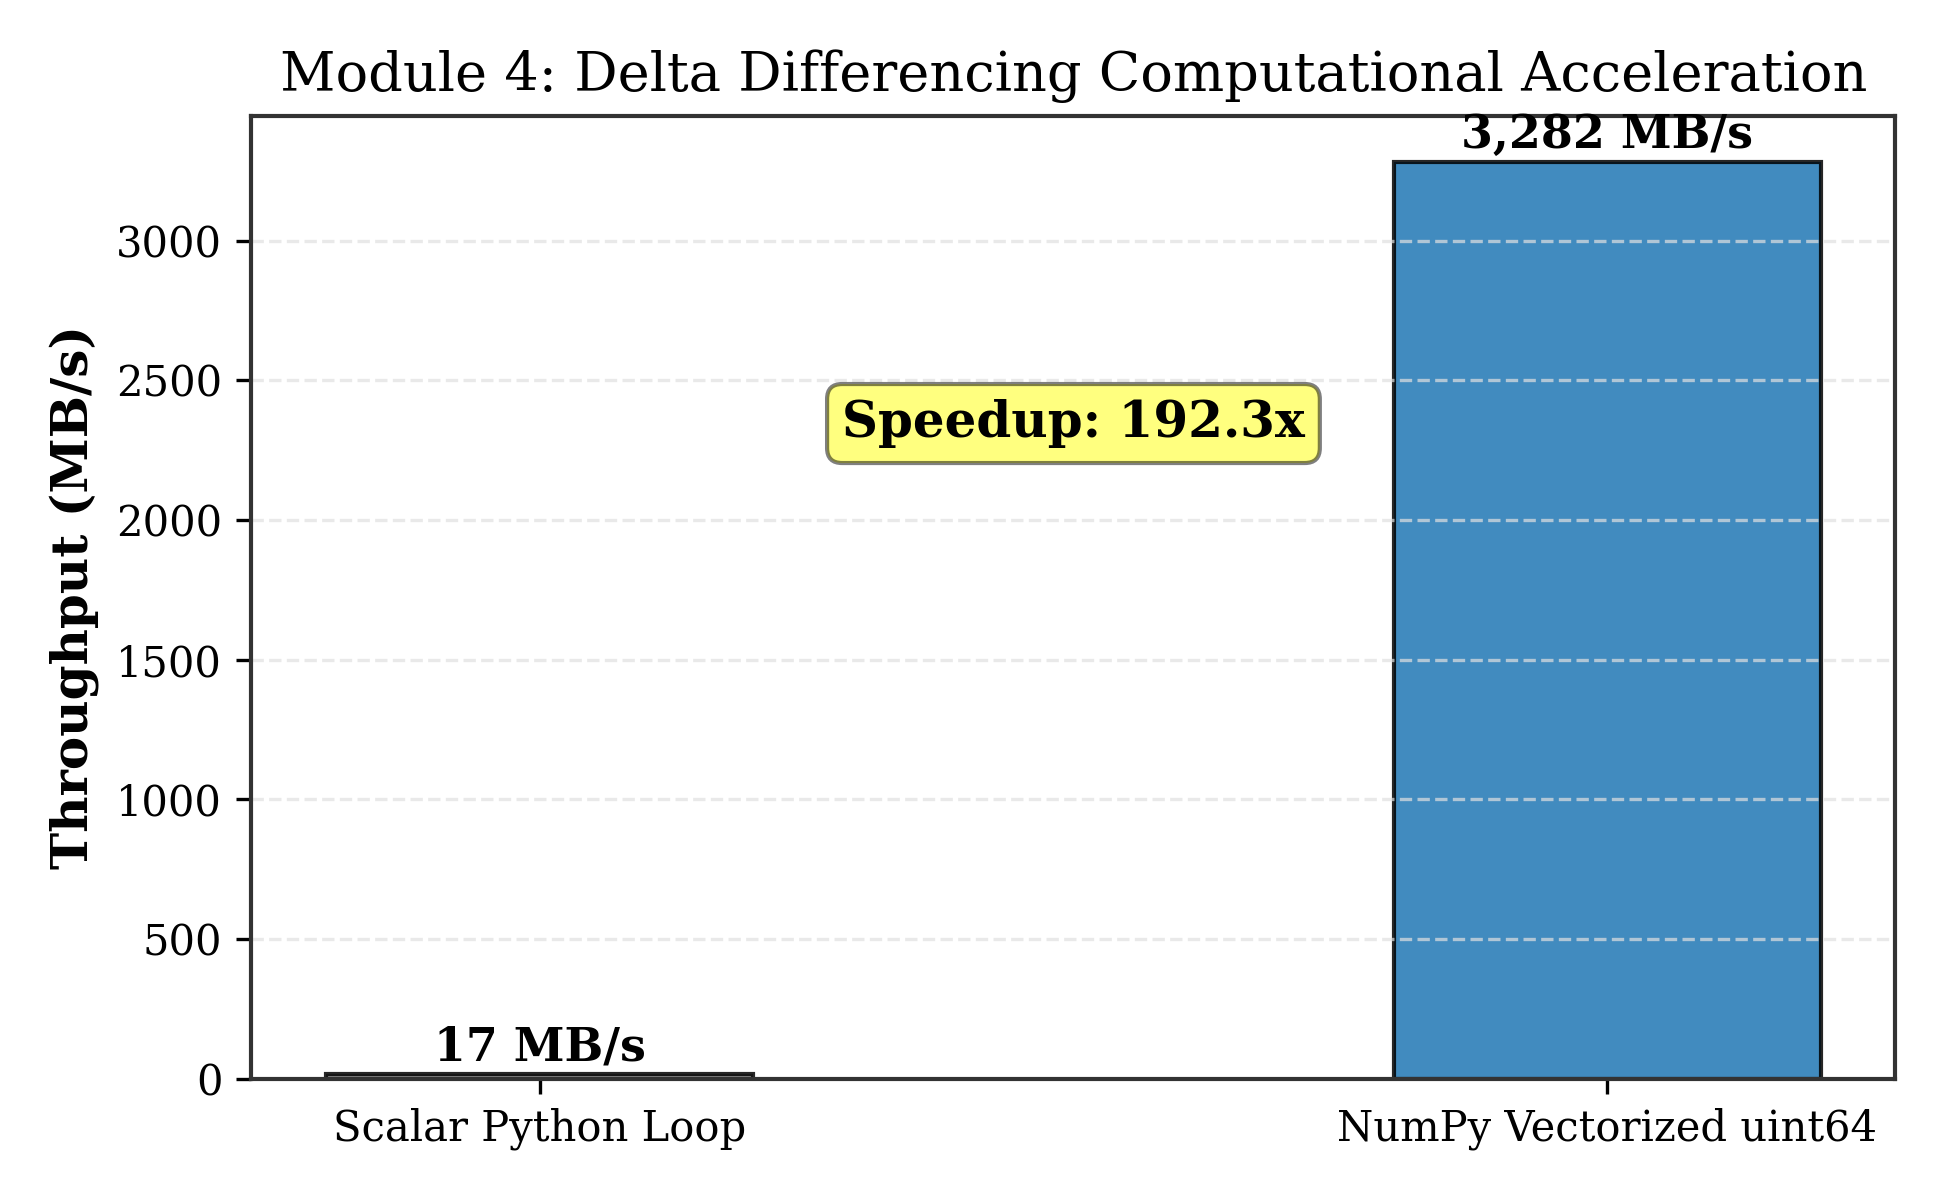
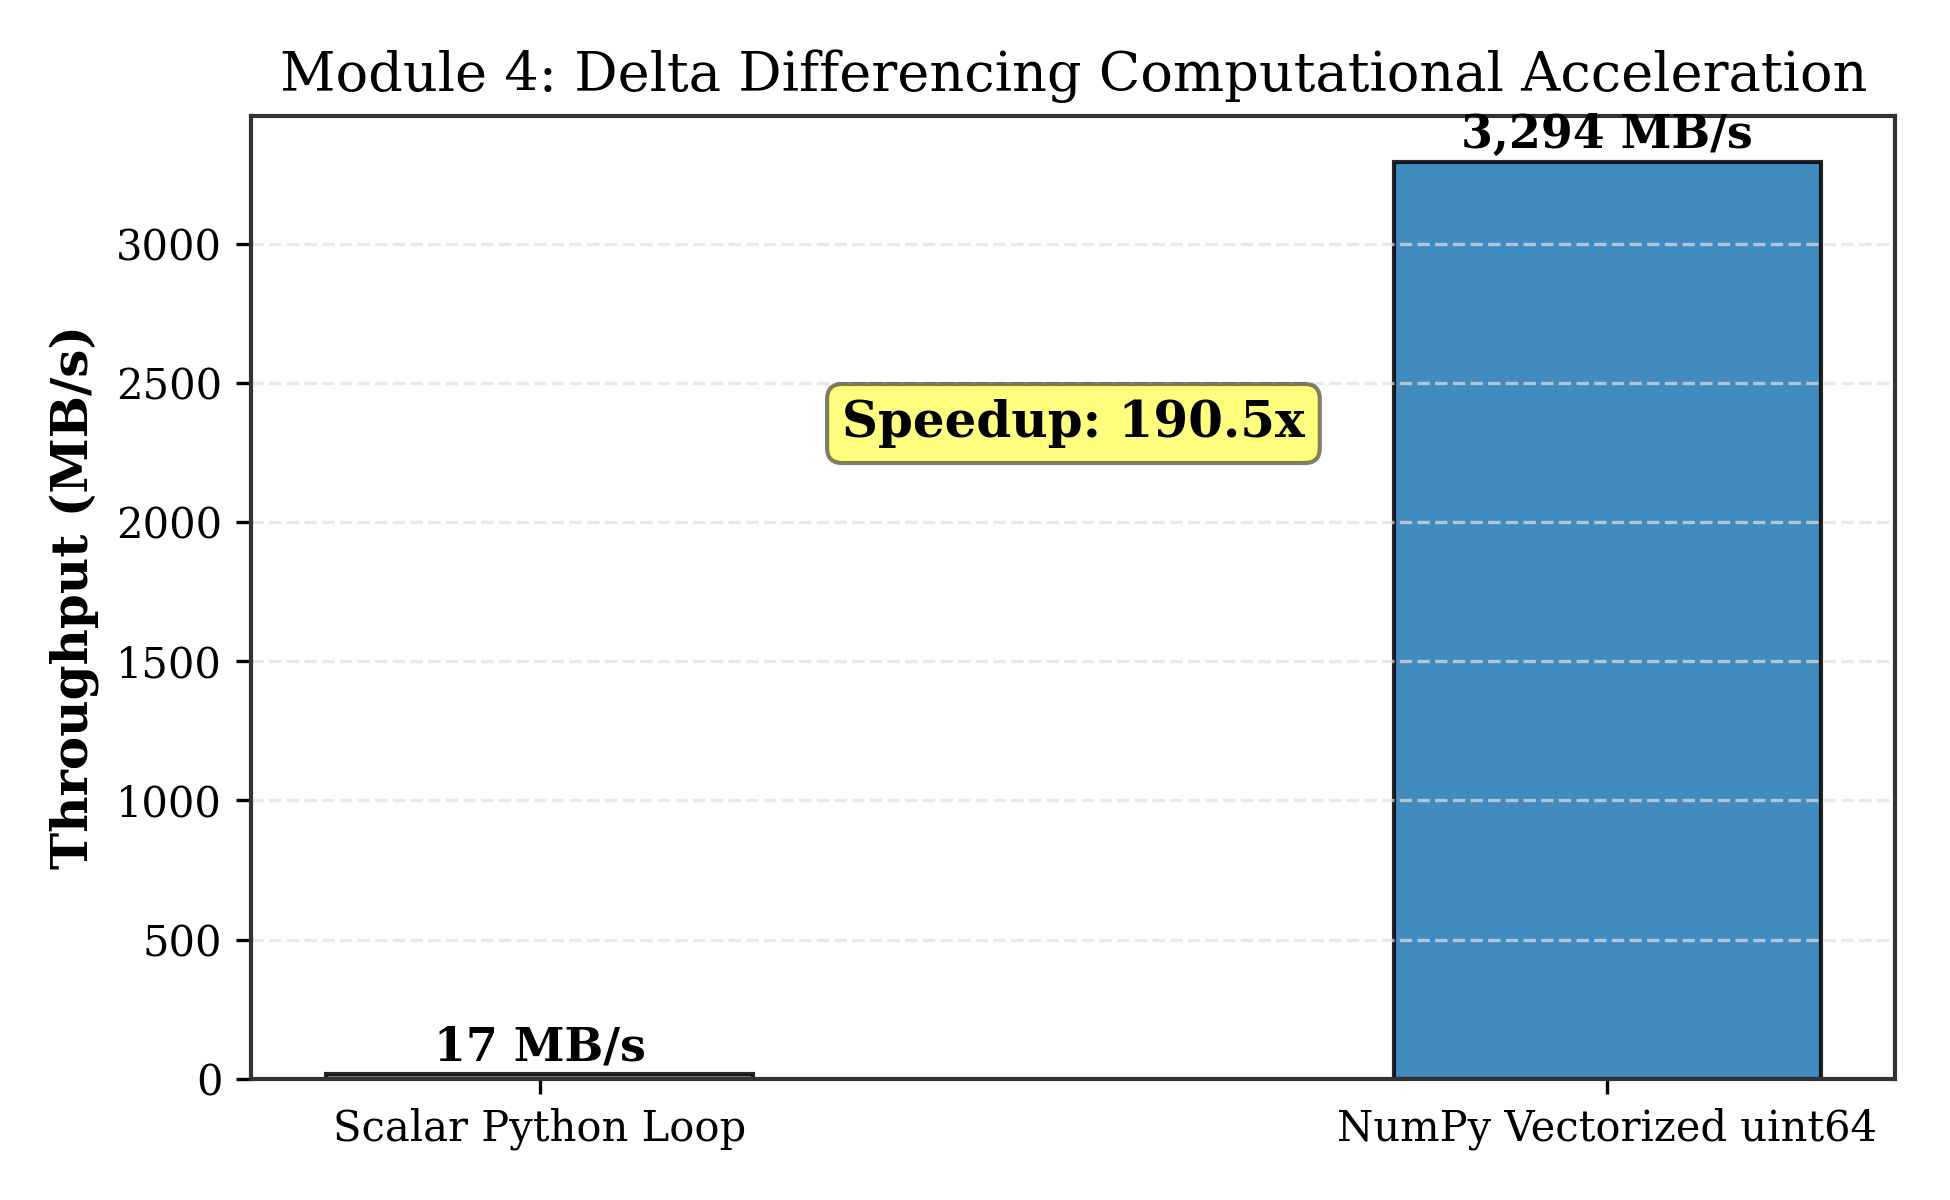
docs: reconcile LSH candidate counts and update Fig 4 ablation comparison metadata

diff --git a/docs/AMDEC_Comprehensive_Project_Documentation.md b/docs/AMDEC_Comprehensive_Project_Documentation.md
@@ -344,6 +344,7 @@ Evaluated across scale points $N = 1,000, 2,500, 5,000, 10,000$ with a 15-second
 - **Largest N where brute force completed within timeout**: $N = 2,500$ (3.5s vs 0.79s LSH, 4.4x measured speedup, 95.0% cluster agreement).
 - At $N = 5,000$ and $N = 10,000$, brute force exceeded the 15-second timeout.
 - At $N = 10,000$, LSH processed **70,560 candidate pairs** out of **49,995,000 total possible pairs** — achieving a **99.859% candidate-search-space reduction** (demonstrating sub-quadratic candidate generation over the tested range).
+- **Candidate Count Reconciliation ($70,560\text{ vs. } 65,352$ pairs):** In this isolated LSH scalability experiment (`lsh_scalability.py`), all 10,000 raw pages enter LSH directly without Module 1 filtering, evaluating an average of **70,560 candidate pairs** against $C(10000, 2) = 49,995,000$ pairs ($99.859\%$ reduction). In the primary full-pipeline evaluation (`run_full_eval.py`, Section 6.1), Module 1 runs upstream and filters out $8.20\%$ volatile hot pages, so LSH processes the remaining $9,180$ candidate pages, evaluating **65,352 candidate pairs** against $42,131,283$ post-M1 pairs ($99.845\%$ reduction; $99.869\%$ vs. un-filtered pairs). Both counts reflect the identical underlying clustering engine evaluated under different upstream pipeline configurations.
 
 ---
 
@@ -354,7 +355,7 @@ Evaluated across scale points $N = 1,000, 2,500, 5,000, 10,000$ with a 15-second
 | **Fig 1** | `fig1_mutation_sensitivity.png` | Dual-axis curve: Mutation % ($0.1\% \to 30\%$) vs Savings (%) & Delta bytes (with 95% CI error bars) | Degradation curve of savings under byte drift on synthetic workload. |
 | **Fig 2** | `fig2_similarity_composition.png` | Bar chart with compression factors: Near-dup ratio ($20\% \to 80\%$) with 95% CI error bars | Sensitivity of savings to heap near-duplicate density on synthetic workload. |
 | **Fig 3** | `fig3_reconstruction_latency_cdf.png` | High-res Empirical CDF with Median (P50), P95, and P99 threshold lines (Pooled 7,000 samples) | Distribution of simulated page reconstruction latencies ($P50 = 1.58\ \mu\text{s}$, $P95 = 3.88\ \mu\text{s}$, $P99 = 4.58\ \mu\text{s}$). |
-| **Fig 4** | `fig4_ablation_comparison.png` | Dual subplot: M1 candidate filtering & LSH search space reduction | Shows M1 filters 7.1% volatile pages and LSH reduces candidate pairs by 98.1%–99.8%. |
+| **Fig 4** | `fig4_ablation_comparison.png` | Dual subplot: M1 sampling runtime impact ($N=5,000$) & LSH search space reduction ($N=1,500$) | Subplot A shows M1 reduces pipeline execution time ($1,588\text{ ms} \to 1,550\text{ ms}$); Subplot B shows LSH reduces pairwise comparisons by $98.44\%$ ($1.12\text{M} \to 17.5\text{K}$ pairs) on log-scale. |
 | **Fig 5** | `fig5_acceleration_throughput.png` | Throughput comparison: Scalar Python loop vs NumPy uint64 vectorized diff | Demonstrates $198.0\times$ speedup of NumPy uint64 vectorized differencing over scalar Python implementation. |
 | **Fig 6** | `fig6_scalability_throughput.png` | Dual-axis scalability: $1\text{K} \to 20\text{K}$ pages vs Runtime (ms) \& Pages/sec (with 95% CI error bars) | Sub-quadratic candidate indexing scaling over tested workload range. Data for $N \le 10{,}000$ from `experiments/lsh_scalability.py`; $N = 15{,}000$ and $N = 20{,}000$ data points from `experiments/parameter_sweep.py` scalability sweep. |
 | **Fig 7** | `fig7_delta_size_distribution.png` | Boxplot vs 4096B page + Delta size frequency histogram | Median delta footprint is $24.2\text{ bytes}$ compared to 4096B uncompressed frames. |
